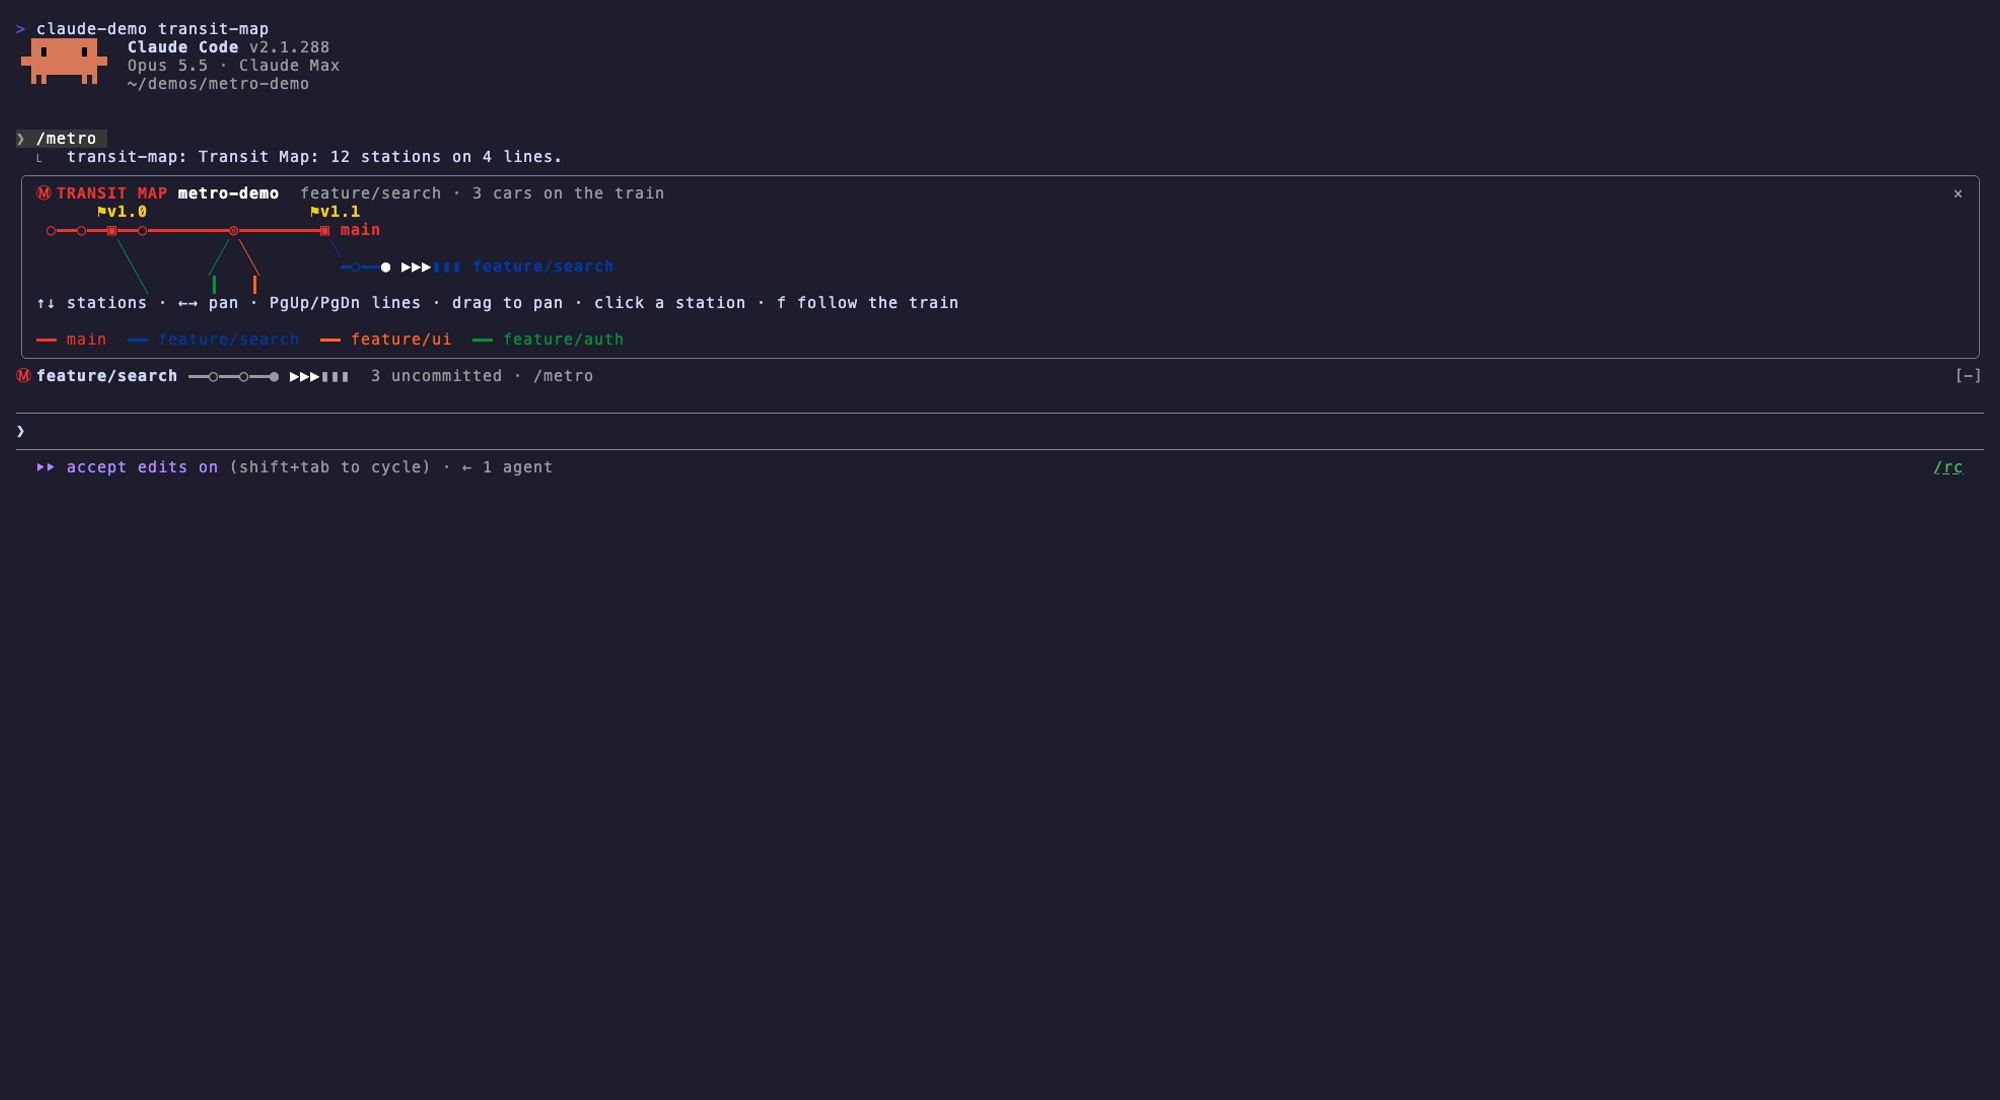
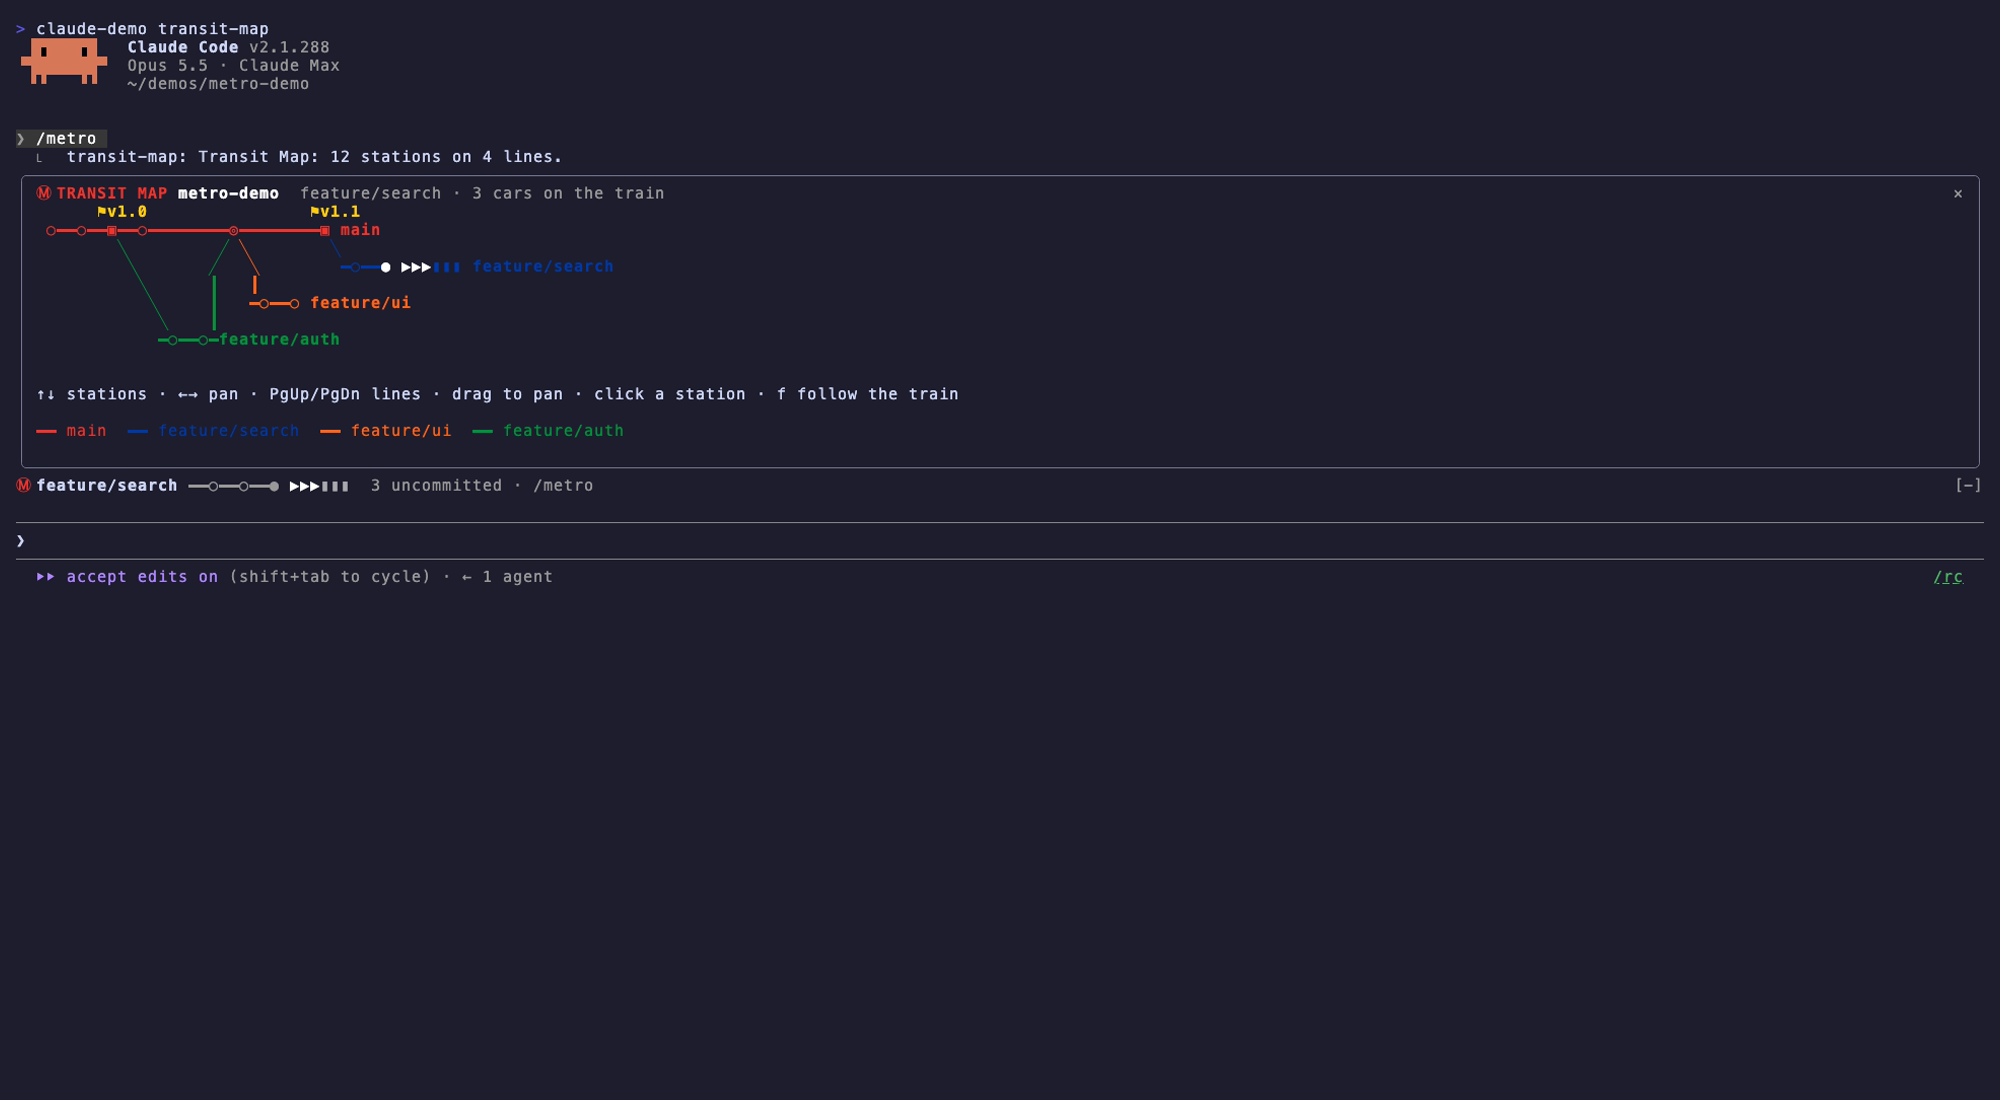
Inline /metro opens tall enough for every lane, so side branches are no longer clipped to stubs
- ui.open asks for rows = map rows + header/footer (capped at 32), and asks again when a refresh adds lanes
- inline pane lays out to the rows it asked for; a smaller body is trusted only below the last drawn height
- Client refollows the train once the real size arrives; PgUp/PgDn stop following and can reach the last row
- header and legend clip to one row each
- re-recorded demo

Claude-Session: https://claude.ai/code/session_017VGnCbLQmqNLXcx8R6Ha7V

diff --git a/tests/transit-map.test.tsx b/tests/transit-map.test.tsx
@@ -1,7 +1,7 @@
 import { describe, expect, test } from 'claude-code/testing'
 
 import type { Graph } from '../types'
-import { layoutGraph, parseLog, parseStatus, rowRuns } from '../hooks/metro'
+import { MAX_PANE_ROWS, PANE_CHROME_ROWS, layoutGraph, paneRows, parseLog, parseStatus, rowRuns } from '../hooks/metro'
 
 const F = '\x1f'
 const line = (sha: string, parents: string, decorations: string, subject: string, time = 1_700_000_000) =>
@@ -54,6 +54,15 @@ describe('parsing', () => {
   test('an edited file lights only its own car, never one that merely ends the same way', () => {
     const cars = parseStatus(' M app.ts\0 M other/src/app.ts\0 M src/app.ts\0', ['/p/src/app.ts'], '/p')
     expect(cars.map(c => c.lit)).toEqual([false, false, true])
+  })
+})
+
+describe('pane height', () => {
+  test('asks for every lane plus the header and footer, so side lines are not clipped to stubs', () => {
+    const g = graphOf()
+    const map = layoutGraph(g)
+    expect(paneRows(g)).toBe(Math.min(MAX_PANE_ROWS, Math.max(8, map.rows + 1 + PANE_CHROME_ROWS)))
+    expect(paneRows(g)).toBeGreaterThanOrEqual(map.rows + 1 + PANE_CHROME_ROWS > MAX_PANE_ROWS ? MAX_PANE_ROWS : map.rows + 1)
   })
 })
 
@@ -135,7 +144,7 @@ const fail = (): { value: Answer } => ({ value: { exitCode: 1, stdout: '', stder
 
 // A fake git that answers what the hooks module asks, and counts history reads.
 // eslint-disable-next-line @typescript-eslint/no-explicit-any
-function host(on: any, counts: { log: number; show: number; status?: number }) {
+function host(on: any, counts: { log: number; show: number; status?: number }, opened: { rows?: number }[] = [], logOf: () => string = () => LOG) {
   on('session.cwd', () => ({ value: '/p' }))
   on('process.run', (_$: unknown, e: { argv: string[] }) => {
     const args = e.argv.slice(1)
@@ -146,7 +155,7 @@ function host(on: any, counts: { log: number; show: number; status?: number }) {
         return ok('f2\n')
       case 'log':
         counts.log += 1
-        return ok(LOG)
+        return ok(logOf())
       case 'symbolic-ref':
         return ok('feature\n')
       case 'rev-list':
@@ -161,7 +170,10 @@ function host(on: any, counts: { log: number; show: number; status?: number }) {
         return fail()
     }
   })
-  on('ui.open', () => ({ value: { isPlaced: true } }))
+  on('ui.open', (_$: unknown, e: { rows?: number }) => {
+    opened.push(e)
+    return { value: { isPlaced: true } }
+  })
 }
 
 const PANE = { component: 'Pane' as const, requestId: 'transit-map' }
@@ -207,6 +219,17 @@ test('/metro loads the map, opens the pane and draws the header and the Client',
     expect(await ui.find({ key: 'metro' })).toBeDefined()
     await ui.unmount()
   }
+})
+
+test('/metro opens the pane inline as tall as the map', async ($, on) => {
+  const counts = { log: 0, show: 0 }
+  const asked: { rows?: number }[] = []
+  host(on, counts, asked)
+  on('command.run', () => ({ text: 'engine' }))
+  await $.command.run({ command: 'metro', args: '' } as never)
+  expect(asked.length).toBe(1)
+  expect(typeof asked[0]?.rows).toBe('number')
+  expect(asked[0]?.rows ?? 0).toBeGreaterThan(PANE_CHROME_ROWS)
 })
 
 test('surfaces without a Client get a timetable', async ($, on) => {
@@ -274,5 +297,42 @@ test('selecting a station in the map shows its files', async ($, on) => {
   await ui.key({ key: 'up', in: 'metro' })
   expect(counts.show).toBe(1)
   expect(await ui.find({ type: 'Text', text: /files: src\/app.ts, src\/feature.ts/, in: 'metro' })).toBeDefined()
+  await ui.unmount()
+})
+
+// One line: main only, so the pane asks for very few rows.
+const ONE_LINE = [line('m2', 'm1', 'HEAD -> refs/heads/main', 'Second', 1_700_000_100), line('m1', '', '', 'Base', 1_700_000_000)].join('\n')
+
+test('a map that gains lanes while the pane is open asks for more rows', async ($, on) => {
+  const counts = { log: 0, show: 0 }
+  const asked: { rows?: number }[] = []
+  let log = ONE_LINE
+  host(on, counts, asked, () => log)
+  on('command.run', () => ({ text: 'engine' }))
+  on('tool.call', () => ({ result: { stdout: '', stderr: '' } }))
+  on('ui.panes', () => ({ value: [{ id: 'transit-map', title: 'Transit Map', isShown: true, isFocused: false, isPlaced: true }] }))
+  await $.command.run({ command: 'metro', args: '' } as never)
+  expect(asked.length).toBe(1)
+  const small = asked[0]?.rows ?? 0
+  log = LOG
+  await $.tool.call({ tool: 'Bash', command: 'git fetch --all' })
+  expect(asked.length).toBe(2)
+  expect(asked[1]?.rows ?? 0).toBeGreaterThan(small)
+})
+
+test('inline, the map is laid out to the rows asked for, never past a smaller window', async ($, on) => {
+  const counts = { log: 0, show: 0 }
+  const asked: { rows?: number }[] = []
+  host(on, counts, asked)
+  on('command.run', () => ({ text: 'engine' }))
+  await $.command.run({ command: 'metro', args: '' } as never)
+  const want = asked[0]?.rows ?? 0
+  // The host reports 0 before it has measured the tree: lay out to what was asked.
+  let ui = await $.ui.mount({ plugin: 'transit-map', surface: 'terminal', ...PANE, props: { title: 'Transit Map', bodyColumns: 120, placement: 'inline', scroll: { offset: 0, bodyRows: 0 } } as never })
+  expect((await ui.find({ key: 'metro' }))?.props?.height).toBe(want - 1)
+  await ui.unmount()
+  // A window the person dragged smaller wins.
+  ui = await $.ui.mount({ plugin: 'transit-map', surface: 'terminal', ...PANE, props: { title: 'Transit Map', bodyColumns: 120, placement: 'inline', scroll: { offset: 0, bodyRows: 6 } } as never })
+  expect((await ui.find({ key: 'metro' }))?.props?.height).toBe(5)
   await ui.unmount()
 })

diff --git a/hooks/register.tsx b/hooks/register.tsx
@@ -2,7 +2,7 @@ import { atom, read, update } from 'claude-code'
 import type { EngineInterface, Register } from 'claude-code'
 
 import type { Detail, Graph } from '../types'
-import { LOG_FORMAT, MAX_COMMITS, parseLog, parseStatus } from './metro'
+import { LOG_FORMAT, MAX_COMMITS, paneRows, parseLog, parseStatus } from './metro'
 
 const PANE = 'transit-map'
 const graphAtom = atom({ plugin: 'transit-map', key: 'graph' } as const, null)
@@ -19,6 +19,11 @@ const EDITS = new Set(['Edit', 'Write', 'NotebookEdit'])
 const MAX_CARS = 60
 
 let seq = 0
+// While the pane is open inline, the body rows it last asked for: a map that gains lanes asks again.
+let askedRows: number | null = null
+// The height of the tree the pane drew last: an inline host reports min(granted, measured), so only a report
+// smaller than what was drawn is a real, smaller window.
+let lastPaneHeight = 0
 
 type Run = { exitCode: number; stdout: string }
 
@@ -94,7 +99,28 @@ async function refresh($: EngineInterface): Promise<Graph | null> {
   }
   await update($, graphAtom, () => graph)
   await update($, errorAtom, () => null)
+  await growPane($, graph)
   return graph
+}
+
+/** The pane is open and the map gained lanes: ask for the rows they need. A closed pane stays closed. */
+async function growPane($: EngineInterface, graph: Graph): Promise<void> {
+  try {
+    const want = paneRows(graph)
+    if (askedRows === null) {
+      // After a reload the module forgot what it asked for; a pane still on screen is still open.
+      const panes = await $.ui.panes()
+      const open = panes.some(p => p.id === PANE && p.isPlaced)
+      if (!open) return
+      askedRows = want
+      return
+    }
+    if (want <= askedRows) return
+    const opened = await $.ui.open({ id: PANE, title: `Transit Map · ${graph.repo}`, rows: want })
+    if (opened.isPlaced) askedRows = want
+  } catch {
+    // The map keeps its size; lower lanes still page into view.
+  }
 }
 
 // Only the train: the working tree changed, history did not.
@@ -164,7 +190,11 @@ export const register: Register = on => {
       return { text: `Transit Map: ${why ?? 'could not read git history.'}` }
     }
     await update($, stripAtom, () => true)
-    await $.ui.open({ id: PANE, title: `Transit Map · ${graph.repo}` })
+    // Inline, ask for every lane at once: left to a third of the screen, side lines clip to stubs.
+    const want = paneRows(graph)
+    askedRows = null
+    const opened = await $.ui.open({ id: PANE, title: `Transit Map · ${graph.repo}`, rows: want })
+    askedRows = opened.isPlaced ? want : null
     const lines = new Set(graph.commits.flatMap(c => [...c.refs, ...c.remotes])).size
     return { text: `Transit Map: ${graph.commits.length} stations on ${lines} line${lines === 1 ? '' : 's'}${graph.truncated ? ' (newest only)' : ''}.` }
   })
@@ -200,6 +230,12 @@ export const register: Register = on => {
     return next(e)
   })
 
+  on('ui.close', { id: PANE }, async ($, e, next) => {
+    askedRows = null
+    lastPaneHeight = 0
+    return next(e)
+  })
+
   on('ui.message', async ($, e, next) => {
     const data = e.data as { select?: unknown } | null
     if (e.element === 'metro' && data !== null && typeof data === 'object' && typeof data.select === 'string') {
@@ -217,7 +253,7 @@ export const register: Register = on => {
       ? ''
       : `${graph.branch ?? 'detached HEAD'}${graph.upstream === null ? '' : ` → ${graph.upstream}`}${graph.ahead > 0 ? ` ↑${graph.ahead}` : ''}${graph.behind > 0 ? ` ↓${graph.behind}` : ''}`
     const header = (
-      <Box key="hdr" flexDirection="row">
+      <Box key="hdr" flexDirection="row" overflow="hidden">
         <Text color="#EE352E" bold>{'Ⓜ TRANSIT MAP '}</Text>
         <Text color="#FFFFFF" bold>{graph?.repo ?? ''}</Text>
         <Text dimColor>{graph === null ? ` ${error ?? 'loading…'}` : `  ${where} · ${graph.cars.length} car${graph.cars.length === 1 ? '' : 's'} on the train`}</Text>
@@ -235,7 +271,16 @@ export const register: Register = on => {
       )
     }
     const { Client } = $.ui.resolve(e)
-    const rows = Math.max(8, (e.props.scroll?.bodyRows ?? e.viewport?.rows ?? 24) - 1)
+    const given = e.props.scroll?.bodyRows ?? 0
+    // Inline, lay out to the height asked for (the host may report the body it measured, not the rows it granted);
+    // a smaller real window (the person dragged the block down) wins. Docked, the body is the real allocation.
+    const asked = askedRows ?? (graph === null ? 9 : paneRows(graph))
+    const body = e.props.placement === 'inline'
+      ? (given > 0 && given < lastPaneHeight ? given : asked)
+      : given > 0 ? given : e.viewport?.rows ?? 24
+    // The header takes one row; the Client gets the rest, never more than the body.
+    const rows = Math.max(1, body - 1)
+    lastPaneHeight = 1 + rows
     return (
       <Box flexDirection="column">
         {header}

diff --git a/hooks/map.tsx b/hooks/map.tsx
@@ -27,6 +27,8 @@ type View = {
   target: { x: number; y: number } | null
   drag: { x: number; offX: number; moved: boolean } | null
   ready: boolean
+  // The real size the view last followed the train at; 0×0 is the call before layout.
+  followedAt: string
 }
 
 const FRAME_MS = 33
@@ -38,6 +40,7 @@ function fresh(): View {
   return {
     seq: -1,
     layout: null,
+    followedAt: '',
     known: new Set(),
     pops: new Map(),
     offX: 0,
@@ -152,9 +155,12 @@ const TransitMap: ClientModule<MapProps, View> = (props, surface: ClientSurface<
         v.offX += PAN_STEP
         clampX(v, w, carsNow())
       } else if (e.key === 'pageup') {
+        v.follow = false
         v.offY = Math.max(0, v.offY - 2)
       } else if (e.key === 'pagedown') {
-        v.offY = Math.min(Math.max(0, (v.layout?.rows ?? 0) - rowsNow()), v.offY + 2)
+        v.follow = false
+        // The same limit the painter uses: the sharing-label row under the last lane can be paged into view.
+        v.offY = Math.min(Math.max(0, (v.layout?.rows ?? 0) + 1 - rowsNow()), v.offY + 2)
       } else if (e.key === 'home') {
         v.follow = false
         v.offX = 0
@@ -225,12 +231,19 @@ const TransitMap: ClientModule<MapProps, View> = (props, surface: ClientSurface<
     v.target = t === null ? null : { x: t.x, y: t.y }
     if (first && t !== null) v.train = { x: t.x, y: t.y }
     if (v.follow) followHead(v, width, mapRows, graph.cars.length)
+    if (surface.columns > 0 && surface.rows > 0) v.followedAt = `${surface.columns}x${surface.rows}`
     // The same commits stay selected and hovered; ones that left the map are let go.
     const indexOf = (sha: string | null) => (sha === null ? -1 : v.layout?.stations.findIndex(s => s.sha === sha) ?? -1)
     v.sel = indexOf(v.selSha)
     if (v.sel < 0) v.selSha = null
     v.hover = indexOf(v.hoverSha)
     if (v.hover < 0) v.hoverSha = null
+  }
+  // The first call comes before layout (0×0): once a real size arrives, or the pane is resized, follow again.
+  const size = `${surface.columns}x${surface.rows}`
+  if (v.follow && v.layout !== null && surface.columns > 0 && surface.rows > 0 && size !== v.followedAt) {
+    followHead(v, width, mapRows, props.graph?.cars.length ?? 0)
+    v.followedAt = size
   }
   // Record the view once, on the first call: later calls reuse this same state object.
   if (isFirst) surface.setState(v)
@@ -308,7 +321,7 @@ const TransitMap: ClientModule<MapProps, View> = (props, surface: ClientSurface<
       {body}
       <Text wrap="truncate-end" bold={commit !== undefined}>{info}</Text>
       <Text wrap="truncate-end" dimColor>{files === '' ? ' ' : files}</Text>
-      <Box flexDirection="row">
+      <Box flexDirection="row" overflow="hidden">
         {legend.map(lane => (
           <Text key={`l${lane.name}`} color={lane.color}>{`${lane.dashed ? '╍╍' : '━━'} ${lane.name}  `}</Text>
         ))}

diff --git a/hooks/metro.ts b/hooks/metro.ts
@@ -8,6 +8,10 @@ export const FIELD = '\x1f'
 export const LOG_FORMAT = '%H%x1f%P%x1f%an%x1f%ct%x1f%D%x1f%s'
 export const MAX_COMMITS = 120
 export const MAX_LANES = 10
+// Pane rows around the map itself: the header line, the Client's footer (station info, files, legend) and one spare.
+export const PANE_CHROME_ROWS = 5
+// The tallest inline pane the map asks for; a taller map scrolls with PgUp/PgDn.
+export const MAX_PANE_ROWS = 32
 const SPACING = 3
 const SUBJECT_ROOM = 72
 
@@ -321,4 +325,10 @@ export function ago(seconds: number, now: number): string {
   if (s < 5400) return `${Math.round(s / 60)}m ago`
   if (s < 129600) return `${Math.round(s / 3600)}h ago`
   return `${Math.round(s / 86400)}d ago`
+}
+
+/** The inline pane height a graph wants: every lane in view (layout rows plus the last), plus the header and footer. */
+export function paneRows(graph: Graph): number {
+  const layout = layoutGraph(graph)
+  return Math.min(MAX_PANE_ROWS, Math.max(8, layout.rows + 1 + PANE_CHROME_ROWS))
 }
